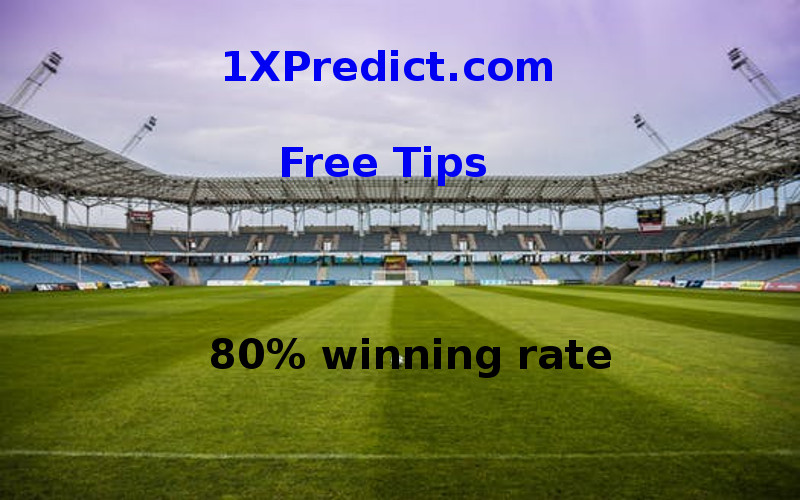
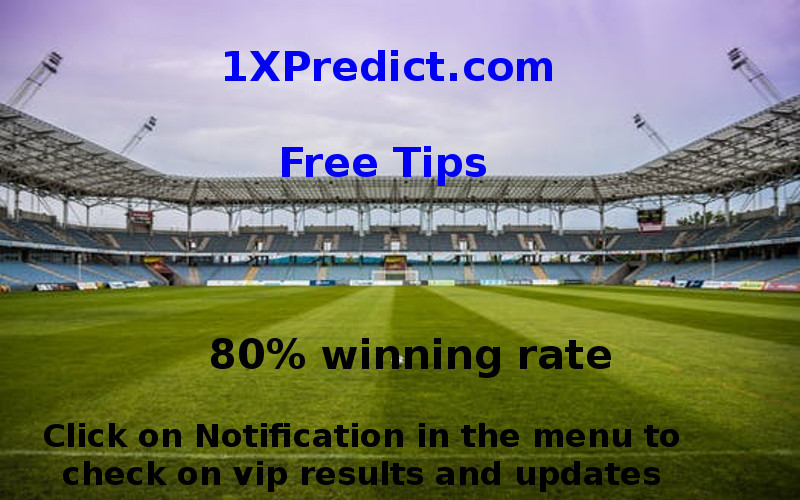
First

Changed region(s): [[0.0312, 0.84, 0.8438, 0.9], [0.0625, 0.93, 0.8438, 0.99]]

diff --git a/palsbet/templates/header.html b/palsbet/templates/header.html
@@ -6,6 +6,7 @@
   <a href="/home/" class="w3-bar-item w3-button"><b>
     <font style="color:white">1XPredict</font></b></a>
     <a href="/viptips/"style="float:right" class="w3-bar-item w3-button w3-hide-small">Vip Tips</a>
+    <a href="/notification/"style="float:right" class="w3-bar-item w3-button w3-hide-small">Notification</a>
     <a href="/jackpot/"style="float:right" class="w3-bar-item w3-button w3-hide-small">Jackpot</a>
     <a href="/singlebet/" style="float:right" class="w3-bar-item w3-button w3-hide-small">Single Bet</a>
     <a href="/payment/" style="float:right" class="w3-bar-item w3-button w3-hide-small">Payment</a>
@@ -20,6 +21,7 @@
   <a href="/payment/" class="w3-bar-item w3-button">Payment</a>
   <a href="/singlebet/" class="w3-bar-item w3-button">Single Bet</a>
   <a href="/jackpot/" class="w3-bar-item w3-button">Jackpot</a>
+  <a href="/notification/" class="w3-bar-item w3-button">Notification</a>
   <a href="/viptips/" class="w3-bar-item w3-button">Vip Tips</a>
 </div>
 

diff --git a/palsbet/templates/notification.html b/palsbet/templates/notification.html
@@ -1,0 +1,44 @@
+{% extends "main_template.html" %}
+{% load static %}
+{% block title %}
+
+1XPredict.com - Roll Over Plan
+
+{% endblock %}
+
+{% block header %}
+
+{% include "header.html" %}
+
+{% endblock %}
+
+{% block over_view_contact %}
+
+{% include "over_view_contact.html" %}
+
+{% endblock %}
+
+{% block content %}
+
+<div align = "center">
+<h2 align="center" class="h4">
+	1XPredict.com Notificatiion
+</h2>
+
+{% for item in Notifications %}
+
+<hr>
+      <h4 class="h4">{{item.Head}}</h4>
+      <p>{{item.Body}}<p>
+       <i><p align = "right" style="color:green">{{item.published_date}}<p></i>
+<hr>
+{% endfor %}
+
+
+{% endblock %}
+
+{% block footer %}
+
+{% include "footer.html" %}
+
+{% endblock %}

diff --git a/palsbet/templates/home_page.html b/palsbet/templates/home_page.html
@@ -126,7 +126,8 @@ hs.src = ('//s10.histats.com/js15_as.js');
 })();</script>
 <noscript><a href="/" target="_blank"><img  src="//sstatic1.histats.com/0.gif?4060837&101" alt="web stats analysis" border="0"></a></noscript>
 <!-- Histats.com  END  -->
-
+<a href="/notification/" >
+  <button type="submit" class=" button4 button3" ><b><h4 style="color:white">Check Vip Results</h4></b></button></a>
 </div>
 
 <div class="w3-third">

diff --git a/palsbet/templates/registration/login.html b/palsbet/templates/registration/login.html
@@ -16,10 +16,10 @@ PalsBet Log In Page
 
 <div align = "center">
 
-<h2>Login To 1XPredict Vip</h2>
+<h2 class="h4">Login To 1XPredict Vip</h2>
 <form method="post" autocomplete="off" >
   {% csrf_token %}
-  {{ form.as_p }}
+  <div style="color:blue"><b>{{ form.as_p }}</b></div>
   <button type="submit" id="back" >Login</button>
 </form>
 

diff --git a/palsbet/templates/rollover.html b/palsbet/templates/rollover.html
@@ -37,7 +37,8 @@
 	<p><i>In roll over plan we give out 1.40 odds one game </i></p>
 </i>
 </p>
-
+<a href="/notification/" >
+  <button type="submit" class=" button4 button3" ><b><h4 style="color:white">Check Roll Over Results</h4></b></button></a>
 
 </div>
 

diff --git a/palsbet/templates/hjackpot.html b/palsbet/templates/hjackpot.html
@@ -38,7 +38,8 @@
 
 </i>
 </p>
-
+<a href="/notification/" >
+  <button type="submit" class=" button4 button3" ><b><h4 style="color:white">Check Jackpot Results</h4></b></button></a>
 
 </div>
 

diff --git a/palsbet/views.py b/palsbet/views.py
@@ -2,7 +2,7 @@ from django.shortcuts import render, redirect
 
 from django.views.generic import TemplateView
 
-from . models import FreeTipsGames, SingleBetGames, VipTips, PunterPick, RollOver
+from . models import FreeTipsGames, SingleBetGames, VipTips, PunterPick, RollOver, Notification
 
 from django.utils import timezone
 
@@ -67,6 +67,23 @@ def rollover(request):
     template_name = 'rollover.html'
 
     return render(request, 'rollover.html')
+
+def notification(request):
+
+    model = Notification
+
+    template_name = 'notification.html'
+
+    args = {}
+
+    Notifications = Notification.objects.filter(
+        published_date__lte=timezone.now()
+    ).order_by('-published_date')[:30]
+
+
+    args ['Notifications'] = Notifications
+
+    return render(request, 'notification.html', args)
 
 def viptips(request):
 

diff --git a/palsbet/urls.py b/palsbet/urls.py
@@ -10,7 +10,7 @@ router.register(r'FreeTipsGames', views.FreeTipsGamesViewSet)
 
 router.register(r'SingleBetGames', views.SingleBetGamesViewSet)
 
-from . views import rolloverh, jackpotp, punterpick, homeviptips, payment, homevip, timeofsending, modeofsending, home, viewolderesults, singlebet, androidapp, jackpot, rollover, viptips, guide, howmanyodds
+from . views import rolloverh, notification, jackpotp, punterpick, homeviptips, payment, homevip, timeofsending, modeofsending, home, viewolderesults, singlebet, androidapp, jackpot, rollover, viptips, guide, howmanyodds
 
 urlpatterns = [
 
@@ -49,6 +49,8 @@ urlpatterns = [
     path('home_vip/', homevip),
 
     path('payment/', payment),
+
+    path('notification/', notification),
 
     path('homevip/', homevip),
 

diff --git a/palsbet/migrations/0011_notification.py b/palsbet/migrations/0011_notification.py
@@ -1,0 +1,22 @@
+# Generated by Django 2.0.3 on 2018-06-04 16:27
+
+from django.db import migrations, models
+
+
+class Migration(migrations.Migration):
+
+    dependencies = [
+        ('palsbet', '0010_auto_20180504_0611'),
+    ]
+
+    operations = [
+        migrations.CreateModel(
+            name='Notification',
+            fields=[
+                ('id', models.AutoField(auto_created=True, primary_key=True, serialize=False, verbose_name='ID')),
+                ('Head', models.TextField(blank=True, null=True)),
+                ('Body', models.TextField(blank=True, null=True)),
+                ('published_date', models.DateTimeField(auto_now_add=True, verbose_name='Date Published')),
+            ],
+        ),
+    ]

diff --git a/palsbet/admin.py b/palsbet/admin.py
@@ -1,6 +1,6 @@
 from django.contrib import admin
 
-from . models import FreeTipsGames,SingleBetGames,VipTips, PunterPick, RollOver
+from . models import FreeTipsGames,SingleBetGames,VipTips, PunterPick, RollOver, Notification
 
 admin.site.register(FreeTipsGames)
 
@@ -11,3 +11,5 @@ admin.site.register(VipTips)
 admin.site.register(PunterPick)
 
 admin.site.register(RollOver)
+
+admin.site.register(Notification)

diff --git a/palsbet/models.py b/palsbet/models.py
@@ -127,3 +127,11 @@ class RollOver(models.Model):
 
     def __str__(self):
        return self.home_team
+
+class Notification(models.Model):
+       Head = models.TextField(blank=True, null=True)
+       Body = models.TextField(blank=True, null=True)
+       published_date = models.DateTimeField('Date Published', auto_now_add=True)
+
+       def __str__(self):
+          return self.Head
